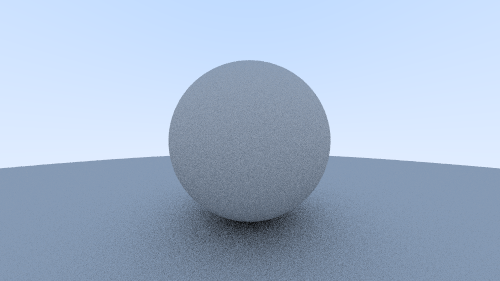
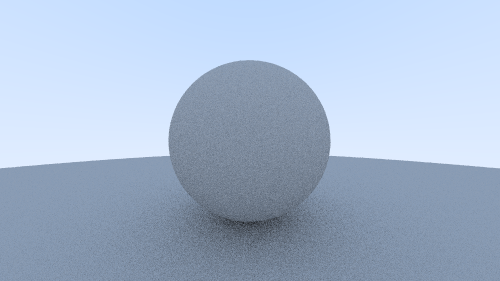
step 8.5

Changed region(s): [[0.36, 0.7402, 0.63, 0.968], [0.48, 0.9964, 0.51, 1.0]]

diff --git a/COSC3P98_FinalProject/Source.cpp b/COSC3P98_FinalProject/Source.cpp
@@ -34,7 +34,8 @@ vec3 getRayColor(ray& r, objectList& objList, int depth)
 	}
 	intersection intersect;
 	if (objList.findFirstIntersection(r, 0.001, INFINITY, intersect)) {
-		point3 target = intersect.point + intersect.norm + random_in_unit_sphere();
+		//Lambertian Diffuse using randomUnitVec3
+		point3 target = intersect.point + intersect.norm + randomUnitVec3();
 		ray newRay = ray(intersect.point, target - intersect.point);
 		return 0.5 * getRayColor(newRay, objList, ++depth);
 	}

diff --git a/COSC3P98_FinalProject/vec3Utils.h b/COSC3P98_FinalProject/vec3Utils.h
@@ -45,10 +45,10 @@ inline static vec3 random(double min, double max) {
     return vec3(random_double(min, max), random_double(min, max), random_double(min, max));
 }
 
-vec3 random_in_unit_sphere() {
+vec3 randomUnitVec3() {
     while (true) {
-        auto p = random(-1, 1);
+        vec3 p = random(-1, 1);
         if (length(p)*length(p) >= 1) continue;
-        return p;
+        return normalize(p);
     }
 }
